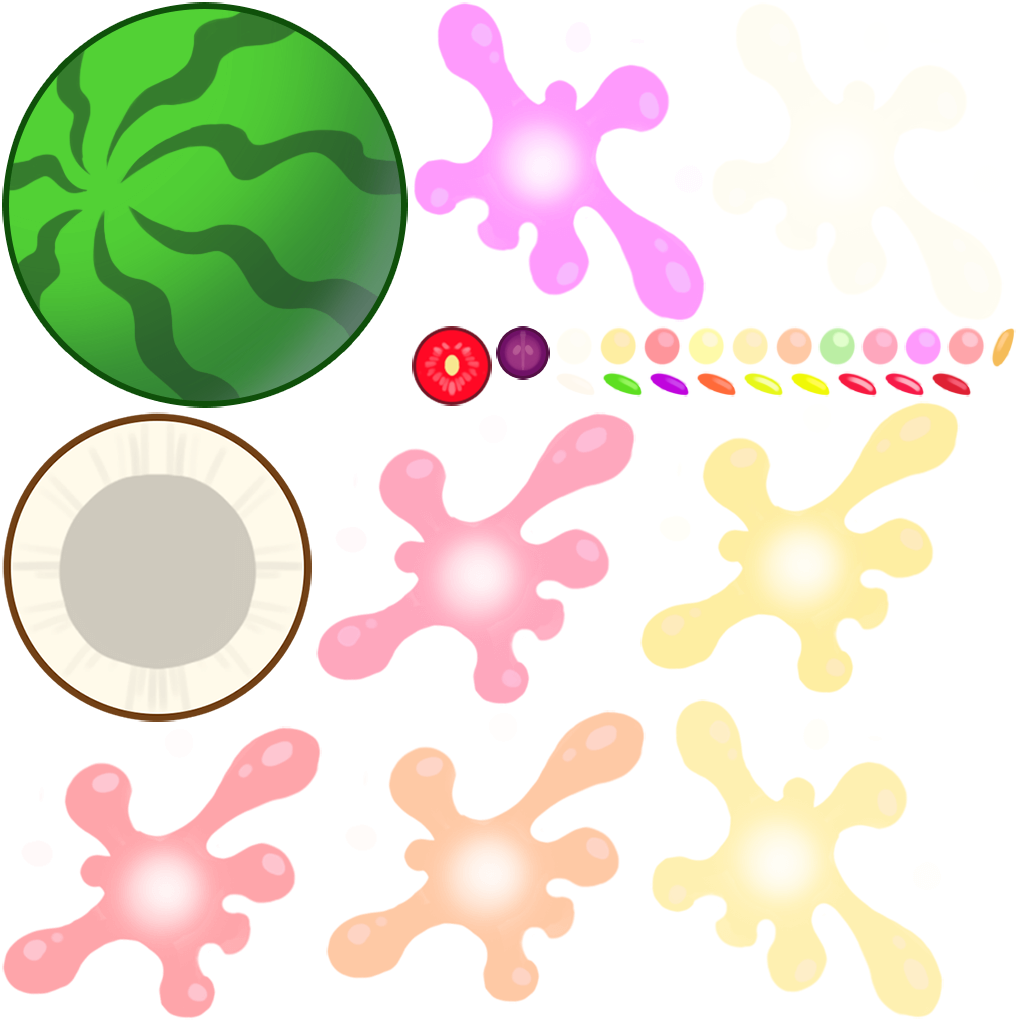
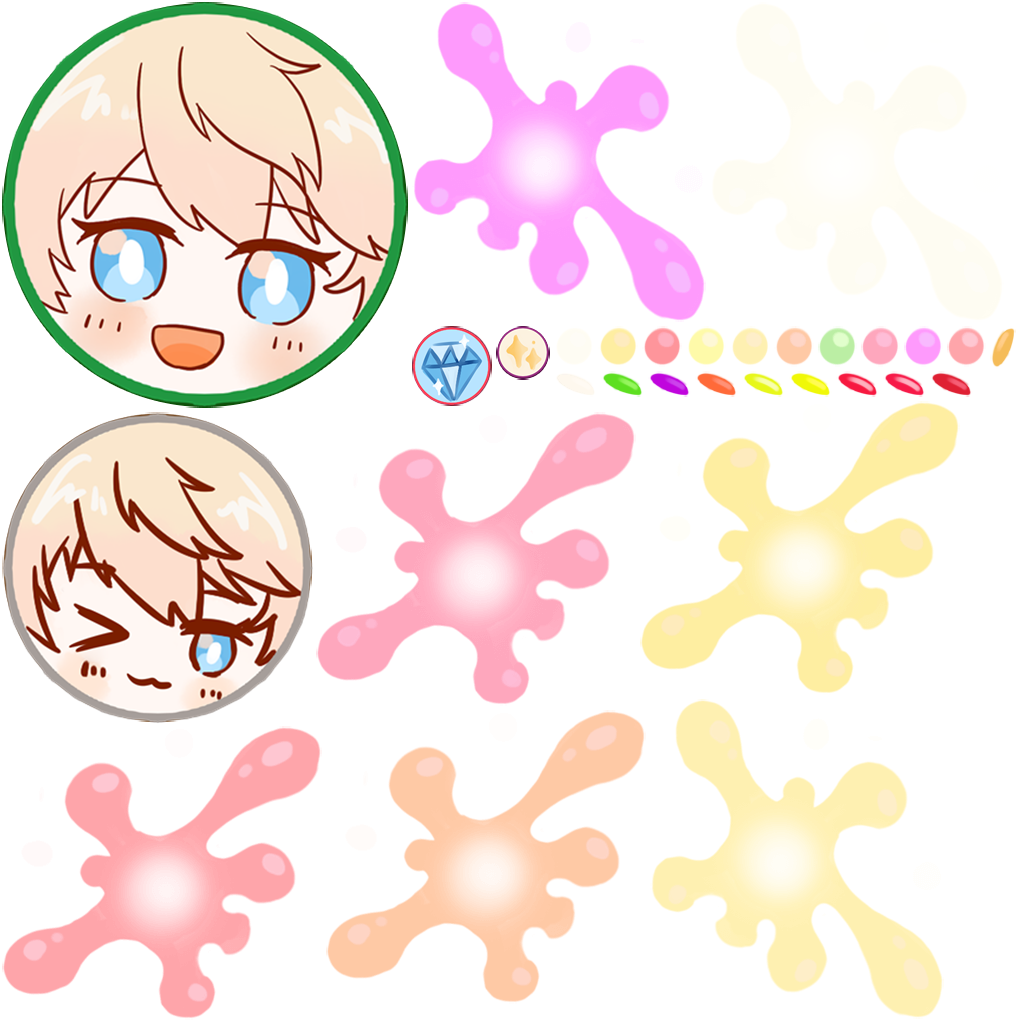
修改图片和title

Changed region(s): [[0.0, 0.0, 0.3959, 0.728], [0.3959, 0.3033, 0.5481, 0.3943]]

diff --git a/index.html b/index.html
@@ -4,7 +4,7 @@
 <head>
     <meta charset="utf-8">
 
-    <title>合成大西瓜</title>
+    <title>合成大罗罗</title>
 
     <!--http://www.html5rocks.com/en/mobile/mobifying/-->
     <meta name="viewport" content="width=device-width,user-scalable=no,initial-scale=1, minimum-scale=1,maximum-scale=1" />
@@ -107,11 +107,11 @@
             //        console.log("window.navigator.language",window.navigator.language);
 
             if (window.navigator.language == "zh-CN" || window.navigator.language == "zh-cn") {
-                document.title = "合成大西瓜";
+                document.title = "合成大罗罗";
             } else if (window.navigator.language == "zh-TW") {
-                document.title = "合成大西瓜";
+                document.title = "合成大罗罗";
             } else if (window.navigator.language == "zh-HK") {
-                document.title = "合成大西瓜";
+                document.title = "合成大罗罗";
             } else if (window.navigator.language == "ko-KR") {
                 document.title = "작은 놀이：큰 수박 을 합성 하 다";
             } else if (window.navigator.language == "ja-JP") {
